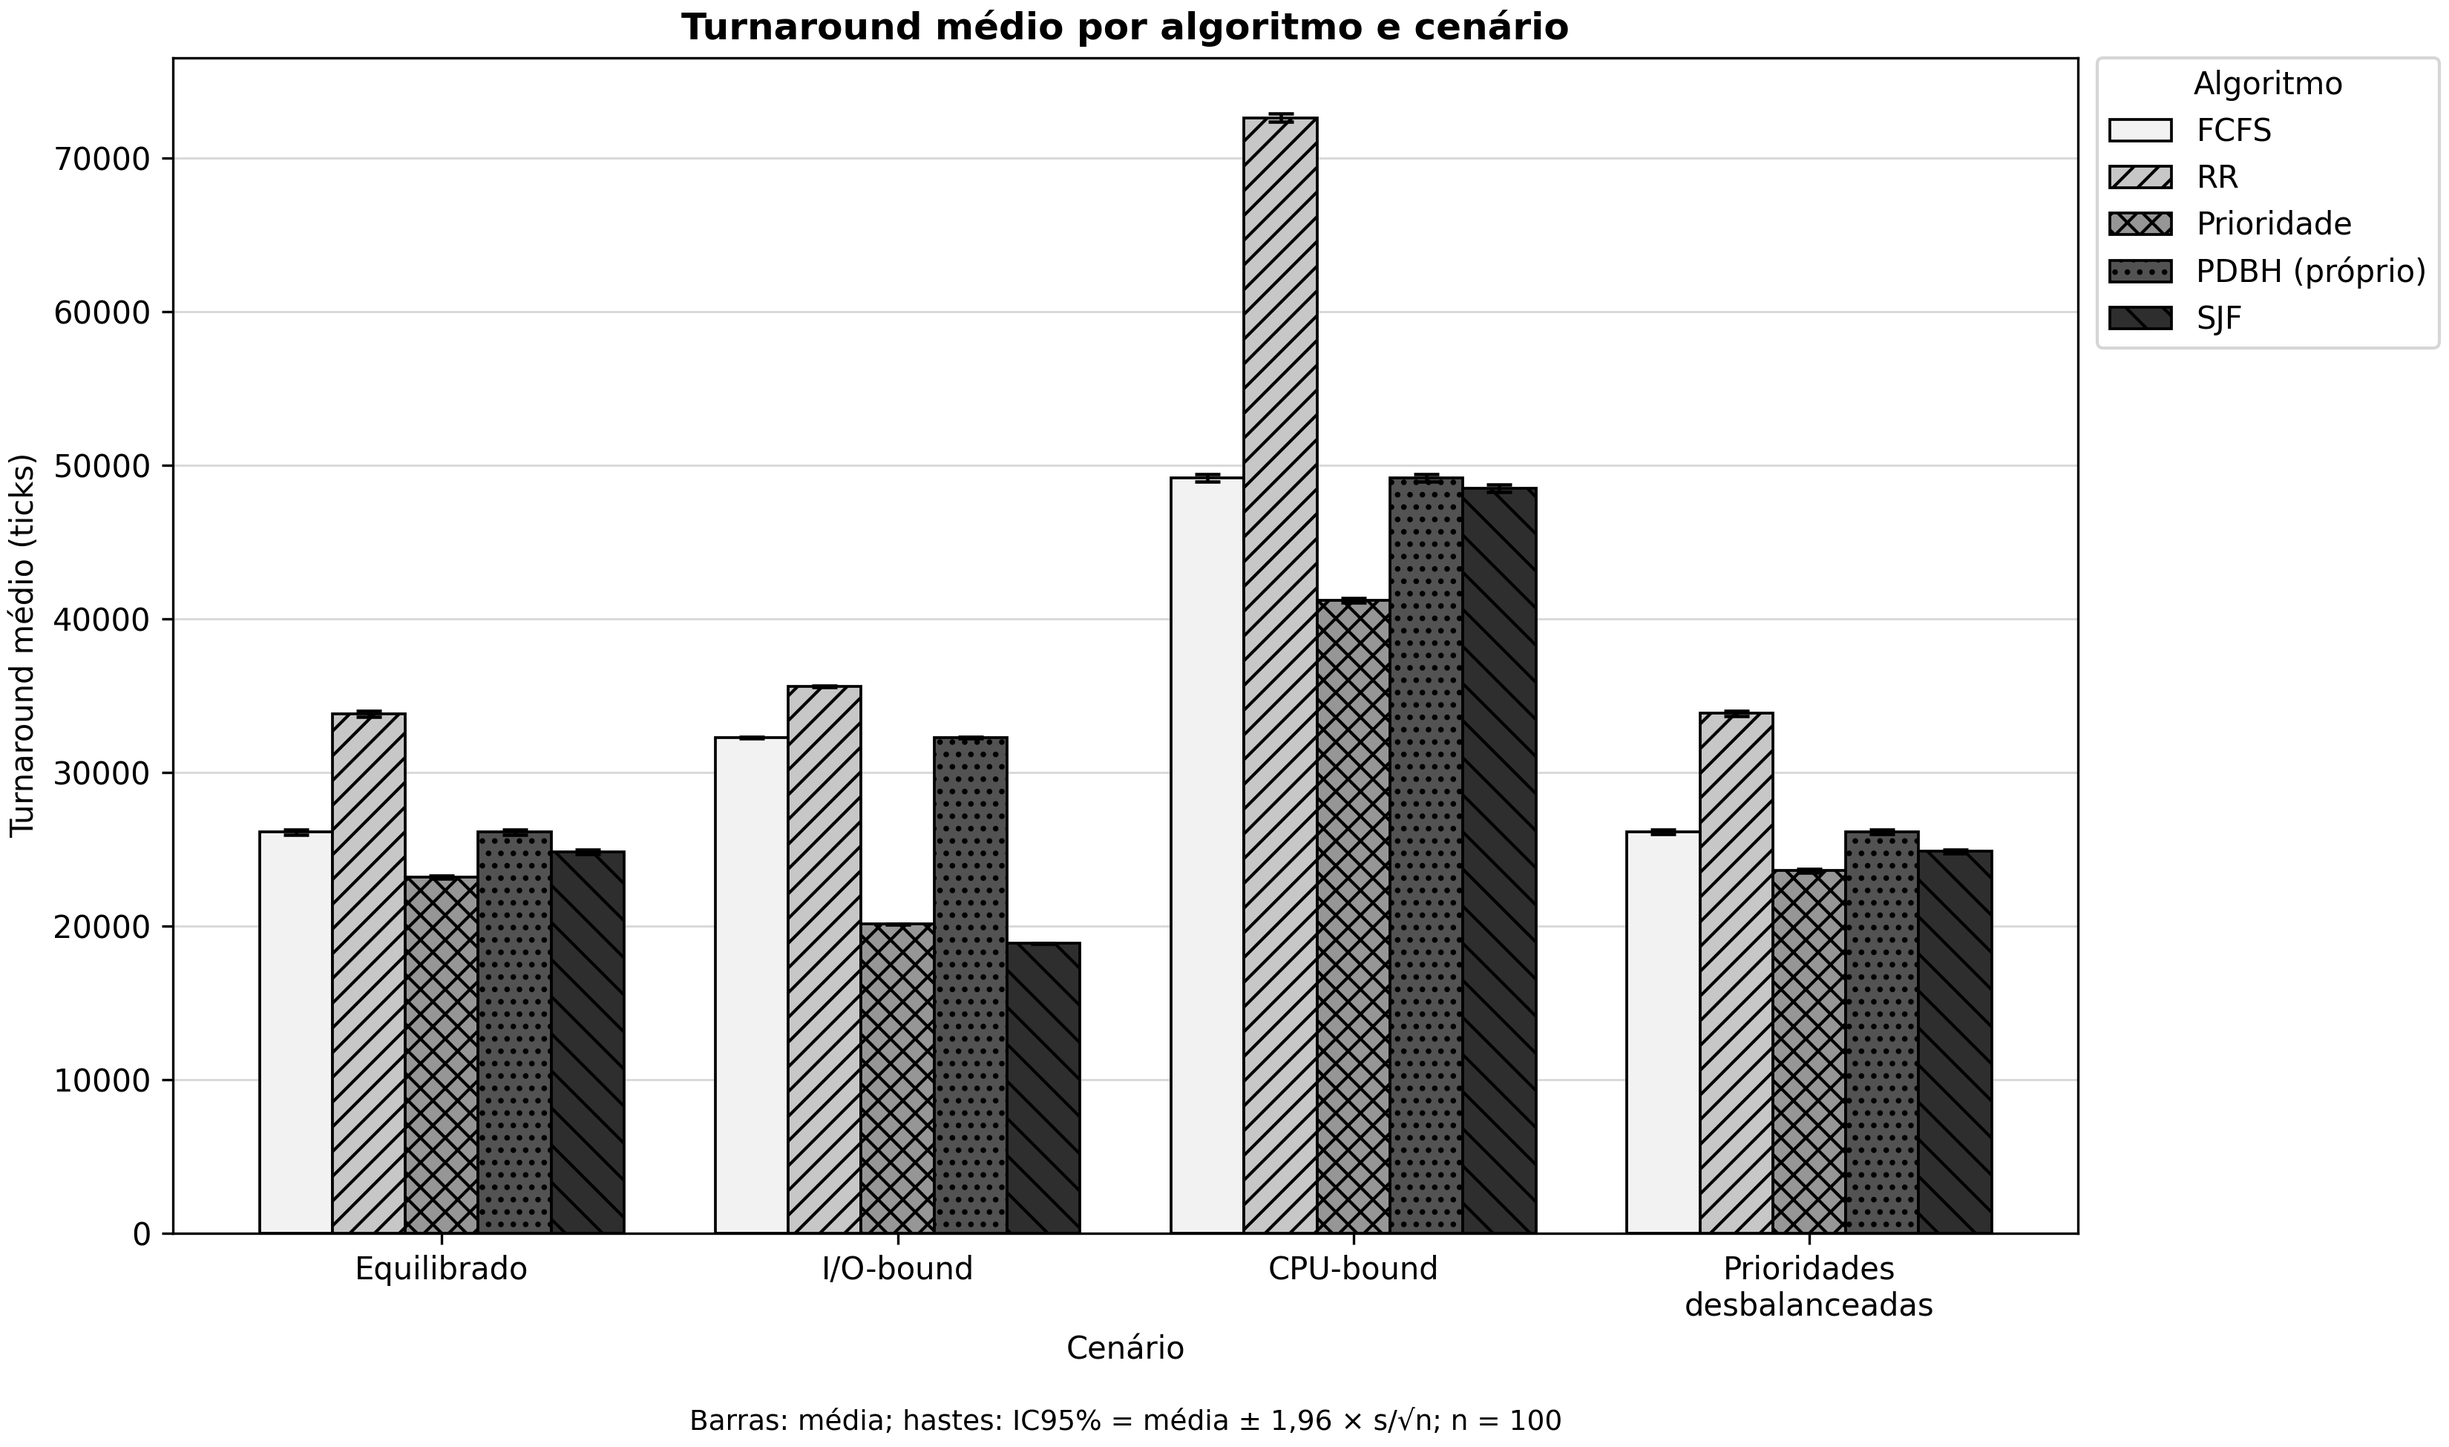
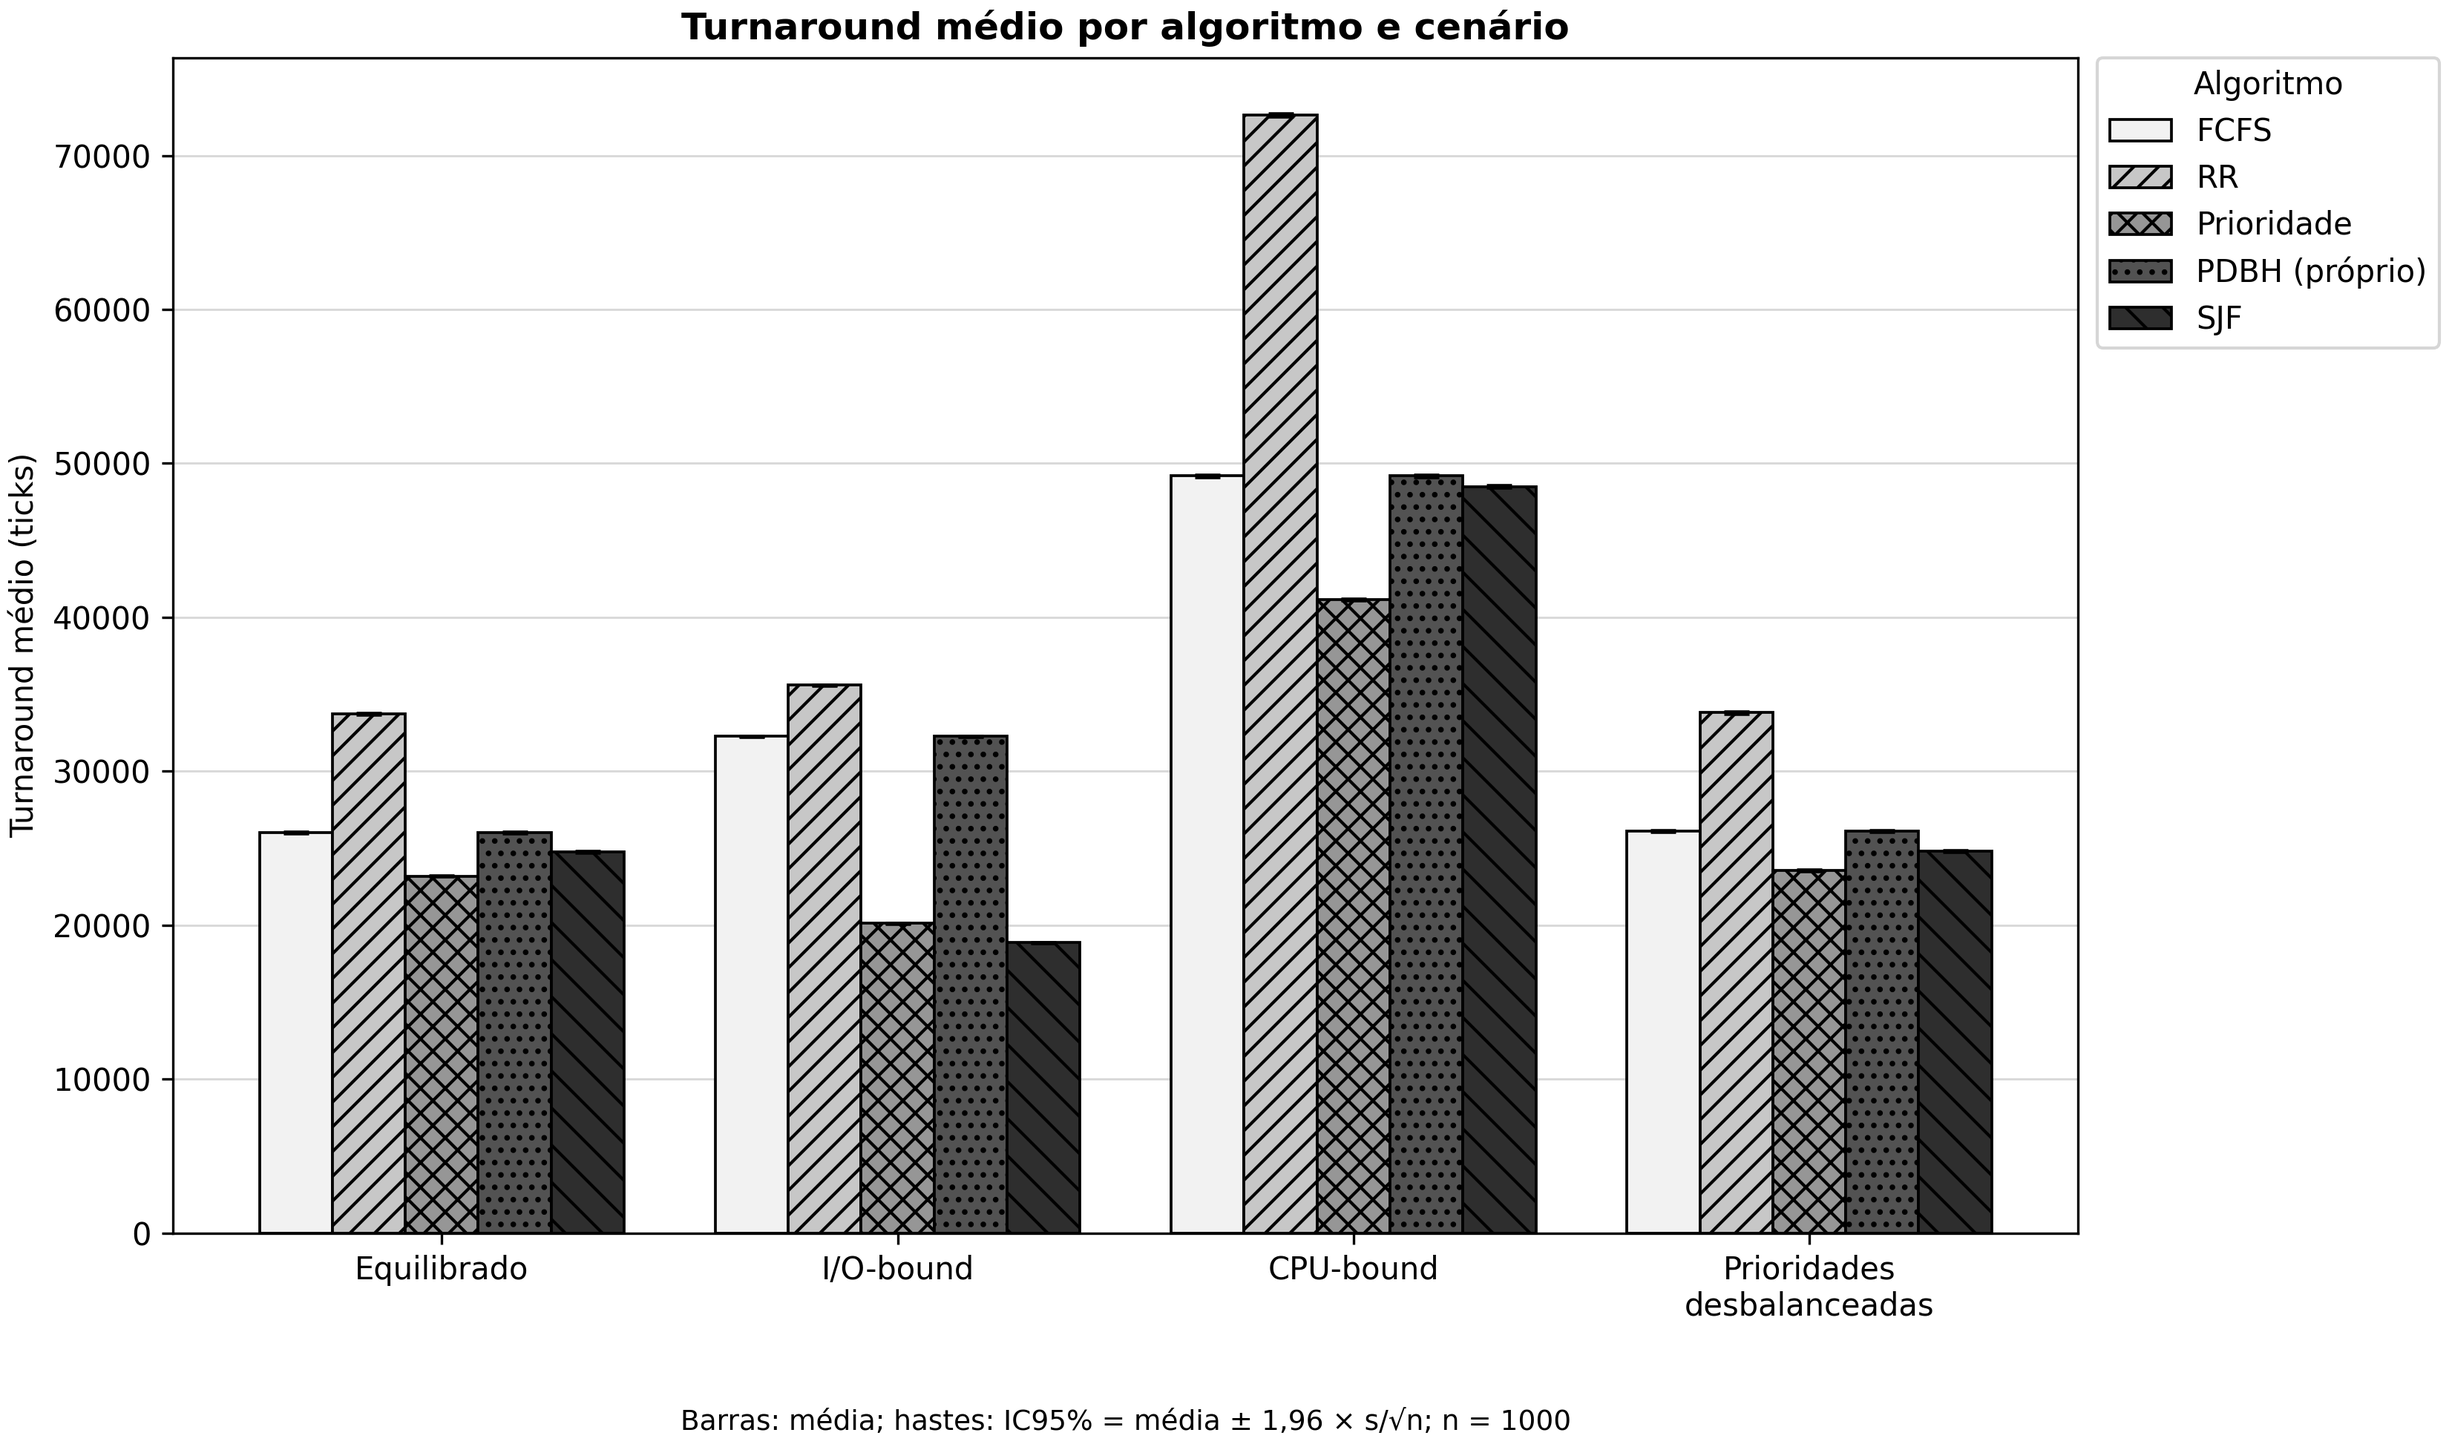
docs(apresentacao): atualiza materiais e atribuicoes

diff --git a/docs/projeto/apresentacao/main.tex b/docs/projeto/apresentacao/main.tex
@@ -208,19 +208,19 @@ Sebastião Sousa Soares}
   \end{columns}
 \end{frame}
 
-\begin{frame}{Protocolo experimental e auditoria}
+\begin{frame}{Protocolo experimental e rastreabilidade}
   \begin{columns}[T,onlytextwidth]
     \column{.55\textwidth}
       \centering
-      {\Large\bfseries 4 cenários $\times$ 100 seeds}\par
+      {\Large\bfseries 4 cenários $\times$ 1.000 seeds}\par
       \vspace{.3em}
-      {\Large\bfseries $\times$ 5 algoritmos = 2.000 execuções}\par
+      {\Large\bfseries $\times$ 5 algoritmos = 20.000 execuções}\par
       \vspace{.8em}
       {\large 1.000 processos por carga}\par
       \vspace{.8em}
       Média e intervalo de confiança de 95\%
     \column{.42\textwidth}
-      \begin{block}{Evidências reproduzíveis}
+      \begin{block}{Rastreabilidade}
         \begin{itemize}
           \item Configuração e seeds versionadas
           \item Manifestos e hashes
@@ -236,14 +236,14 @@ Sebastião Sousa Soares}
   \centering
   \figuraresultado{mean_turnaround_ic95.png}
 
-  \small \textbf{Leitura:} Prioridade obteve o menor turnaround em todos os cenários; RR apresentou o maior, especialmente em CPU-bound. Barras mostram média e IC95\%, em ticks.
+  \small \textbf{Leitura:} Prioridade teve o menor turnaround em três cenários e SJF no I/O-bound; RR apresentou o maior, especialmente em CPU-bound. Barras mostram média e IC95\%, em ticks.
 \end{frame}
 
 \begin{frame}{Resultado 2: justiça de Jain do slowdown}
   \centering
   \figuraresultado{jain_slowdown_pct_ic95.png}
 
-  \small \textbf{Leitura:} RR é mais justo; Prioridade amplia a desigualdade. O eixo vertical está em porcentagem e as hastes representam IC95\%.
+  \small \textbf{Leitura:} RR alcança alta justiça, sobretudo em CPU-bound; Prioridade apresenta a maior desigualdade. O eixo vertical está em porcentagem e as hastes representam IC95\%.
 \end{frame}
 
 \begin{frame}{Resultado 3: trocas de contexto}
@@ -253,14 +253,21 @@ Sebastião Sousa Soares}
   \small \textbf{Leitura:} a preempção do RR eleva o custo, sobretudo em CPU-bound. O eixo vertical representa quantidade de trocas e as hastes, IC95\%.
 \end{frame}
 
+\begin{frame}{Convergência com o aumento da amostra}
+  \centering
+  \figuraresultado{comparativo_convergencia_ic95.png}
+
+  \small \textbf{Leitura:} as médias estabilizam progressivamente e os IC95\% estreitam de $N=10$ a $N=1.000$, aumentando a precisão sem alterar a tendência geral.
+\end{frame}
+
 \begin{frame}{Conclusão: o PDBH respondeu à hipótese}
   \begin{columns}[T,onlytextwidth]
     \column{.55\textwidth}
       \begin{block}{O que os dados mostraram}
         \begin{itemize}
-          \item PDBH não melhorou nenhuma métrica ou cenário
+          \item PDBH não apresentou vantagem prática nos cenários avaliados
           \item IC95\% praticamente sobreposto ao FCFS
-          \item Mesmo número de trocas das políticas não preemptivas
+          \item Mesmo número de trocas de FCFS e Prioridade
           \item Custo extra: recalcular a pontuação da fila
         \end{itemize}
       \end{block}
@@ -268,10 +275,10 @@ Sebastião Sousa Soares}
       \begin{block}{Por quê?}
         Sem preempção, processos esperam juntos e acumulam bônus semelhantes. A pontuação tende a preservar a ordem de chegada.
       \end{block}
-      \alert{Conclusão defendida:} histórico dinâmico isolado não basta. Próximo passo: investigar um PDBH preemptivo.
+      \alert{Conclusão:} neste modelo, o histórico dinâmico isolado não trouxe ganho. Próximo passo: investigar um PDBH preemptivo.
   \end{columns}
   \vfill
-  \centering\small Código testado • resultados auditáveis • artigo científico • responsabilidades registradas
+  \centering\small Código testado • resultados consolidados • artigo científico • responsabilidades registradas
 \end{frame}
 
 \end{document}

diff --git a/docs/projeto/apresentacao.md b/docs/projeto/apresentacao.md
@@ -5,7 +5,7 @@
 - **Duração total:** 10 minutos exatos, de `00:00` a `10:00`.
 - **Formato sugerido:** sete falas contínuas, sem intervalo entre integrantes.
 - **Ritmo:** conversação clara, sem acelerar; cada integrante deve ensaiar respeitando o encerramento indicado para sua fala.
-- **Apoio visual:** usar a capa e os onze quadros de `apresentacao/main.tex`. Deixar a capa projetada antes do início e iniciar o cronômetro ao avançar para o primeiro quadro de conteúdo. Alguns blocos usam dois ou quatro quadros, mas a troca deve ocorrer durante a fala, sem pausa. Cada gráfico ocupa um quadro completo para preservar título, cenários, cinco algoritmos, unidade, média e IC95%.
+- **Apoio visual:** usar a capa e os doze quadros de `apresentacao/main.tex`. Deixar a capa projetada antes do início e iniciar o cronômetro ao avançar para o primeiro quadro de conteúdo. Alguns blocos usam mais de um quadro, mas a troca deve ocorrer durante a fala, sem pausa. Cada gráfico ocupa um quadro completo para preservar sua legibilidade.
 - **Regra de transição:** quem termina chama imediatamente o próximo integrante pela ideia indicada no fim da fala. As transições já fazem parte do tempo de cada bloco.
 
 ## Visão do tempo
@@ -87,11 +87,11 @@
 
 ### 6. `07:05–08:35` — Samuel Wagner: métricas, testes e experimento
 
-**Quadros 6 e 7:** definições das três métricas e protocolo `4 cenários × 100 seeds × 5 algoritmos = 2.000 execuções`.
+**Quadros 6 e 7:** definições das três métricas e protocolo `4 cenários × 1.000 seeds × 5 algoritmos = 20.000 execuções`.
 
 > Avaliamos cada política por três perspectivas. Turnaround é conclusão menos chegada. Trocas de contexto contam mudanças diretas entre processos. Slowdown divide o turnaround pela soma ideal de CPU e entrada e saída; o índice de Jain compara esses slowdowns. Próximo de cem por cento significa atrasos mais equilibrados, mas justiça deve ser lida junto ao turnaround: todos podem ser igualmente lentos.
 >
-> O experimento final combina quatro cenários, cem seeds e cinco algoritmos, totalizando duas mil execuções com mil processos em cada carga. Os scripts consolidam os CSVs, calculam média e intervalo de confiança de 95% e geram os três gráficos apresentados no artigo. Manifestos registram configuração, versão do código e hashes dos artefatos, permitindo auditar e repetir o lote.
+> O experimento final combina quatro cenários, mil seeds e cinco algoritmos, totalizando vinte mil execuções com mil processos em cada carga. Os scripts consolidam os CSVs, calculam média e intervalo de confiança de 95% e geram os gráficos apresentados no artigo. Manifestos registram configuração, versão do código e hashes dos artefatos, documentando as condições necessárias para verificar ou repetir o lote.
 >
 > A confiabilidade não depende apenas do resultado final. Há testes de processos, filas, escalonadores, simulação, configuração, importação e exportação de workloads, linha de comando, análise e evidências. Também verificamos determinismo, transições válidas, cálculos das métricas, retomada do experimento e publicação segura dos arquivos, evitando resultados incompletos.
 >
@@ -99,15 +99,15 @@
 
 ### 7. `08:35–10:00` — Sabrina Alencar: resultados e conclusão
 
-**Quadros 8 a 11:** um quadro completo para cada gráfico — turnaround, Jain e trocas — e a síntese “Prioridade: menor turnaround”, “RR: maior justiça e mais trocas”, “PDBH ≈ FCFS”.
+**Quadros 8 a 12:** gráficos de turnaround, Jain, trocas e convergência, seguidos da síntese “Prioridade/SJF: menor turnaround”, “RR: alta justiça e mais trocas”, “PDBH próximo do FCFS”.
 
-> Não existe um único algoritmo melhor em tudo. A Prioridade Estática apresentou o menor turnaround médio nos quatro cenários, mas teve a pior equidade. Nos cenários equilibrado e desbalanceado, seu índice de Jain ficou próximo de 31%, sinal de grande desigualdade entre processos.
+> Não existe um único algoritmo melhor em tudo. A Prioridade Estática apresentou o menor turnaround médio em três cenários, enquanto o SJF foi melhor no I/O-bound; a Prioridade, porém, teve a pior equidade. Nos cenários equilibrado e desbalanceado, seu índice de Jain ficou próximo de 31%, sinal de grande desigualdade entre processos.
 >
 > O Round Robin seguiu o comportamento oposto. Ele alcançou boa justiça, chegando a aproximadamente 96% no cenário CPU-bound e 97% no I/O-bound. Porém, pagou por isso com maior turnaround e muitas trocas de contexto: no CPU-bound foram mais de vinte mil, contra cerca de duas mil nas políticas não preemptivas.
 >
-> O resultado mais importante foi o PDBH. Seus intervalos de confiança ficaram praticamente sobrepostos aos do FCFS. Como ele não interrompe a rajada atual, os processos aguardam juntos e acumulam bônus parecidos; na prática, a pontuação tende a reproduzir a ordem de chegada, acrescentando cálculo sem ganho mensurável.
+> O PDBH não apresentou vantagem prática sobre o FCFS nos cenários avaliados, e seus intervalos de confiança ficaram praticamente sobrepostos. Como ele não interrompe a rajada atual, os processos aguardam juntos e acumulam bônus parecidos, reduzindo o efeito da pontuação dinâmica. A curva de convergência mostra ainda que as médias já se estabilizam por volta de cem seeds e que a ampliação para mil estreita os intervalos de confiança.
 >
-> O experimento respondeu à pergunta proposta: histórico dinâmico, sozinho e sem preempção, não melhorou o escalonamento neste modelo. Entregamos código testado, cargas reproduzíveis, duas mil execuções auditáveis, gráficos e artigo, além de um caminho futuro: investigar uma versão preemptiva do PDBH. Obrigada.
+> O experimento respondeu à pergunta proposta: histórico dinâmico, sozinho e sem preempção, não melhorou o escalonamento neste modelo. Entregamos código testado, cargas reproduzíveis, vinte mil execuções consolidadas, gráficos e artigo, além de um caminho futuro: investigar uma versão preemptiva do PDBH. Obrigada.
 
 ## Base da atribuição das falas
 

diff --git a/docs/projeto/atribuicoes-equipe.md b/docs/projeto/atribuicoes-equipe.md
@@ -1,0 +1,18 @@
+# Atribuições da equipe
+
+Este resumo foi elaborado a partir dos commits não relacionados a merge incorporados
+à `main`, agrupando identidades Git equivalentes e considerando coautorias registradas.
+
+| Integrante | Principais atribuições observadas no histórico |
+| --- | --- |
+| Elder Rayan Oliveira Silva | Estruturas de processos, estados e filas; invariantes da simulação; implementação inicial do SJF; estrutura e finalização do artigo. |
+| Espedito Ramom Mascena Ricarto | Gerador pseudoaleatório PCG32; configuração e validação de argumentos; geração, importação e exportação de workloads; piloto e base do executor experimental. |
+| Manoel Junio Duarte da Silva | Estrutura inicial do repositório, Makefile, CI e templates; motor inicial de simulação orientado a eventos e testes associados. |
+| Pedro Yan Alcantara Palácio | Interface comum dos escalonadores; isolamento do FCFS; implementação de Round Robin e Prioridade não preemptiva. |
+| Sabrina Alencar Soares | Execução e consolidação do lote experimental; geração dos gráficos; análise dos algoritmos, discussão estatística e revisão do artigo. |
+| Samuel Wagner Tiburi Silveira | Especificação e decisões do modelo; trocas de contexto e métricas; configuração, E/S e persistência reprodutível; testes; executor, retomada, análise, evidências e ampliação para 20.000 execuções; revisão técnica do artigo e do SJF. |
+| Sebastião Sousa Soares | Concepção, implementação e documentação do PDBH; materiais e roteiro da apresentação; alinhamento final entre análise, evidências, gráficos e documentação. |
+
+As atribuições descrevem as contribuições predominantes conforme o histórico e não
+implicam exclusividade: diversas entregas tiveram revisão, correção ou coautoria de
+outros integrantes.

diff --git a/docs/projeto/apresentacao/README.md b/docs/projeto/apresentacao/README.md
@@ -3,7 +3,7 @@
 Esta pasta é autocontida. Para usar:
 
 1. Crie um projeto vazio no Overleaf.
-2. Envie os quatro arquivos desta pasta para a raiz do projeto.
+2. Envie os cinco arquivos desta pasta para a raiz do projeto.
 3. Defina `main.tex` como documento principal.
 4. Compile com pdfLaTeX.
 
@@ -13,5 +13,6 @@ Arquivos necessários:
 - `mean_turnaround_ic95.png`
 - `jain_slowdown_pct_ic95.png`
 - `context_switches_ic95.png`
+- `comparativo_convergencia_ic95.png`
 
 O roteiro de fala, com responsáveis e divisão exata dos dez minutos, permanece em `../apresentacao.md` no repositório.
